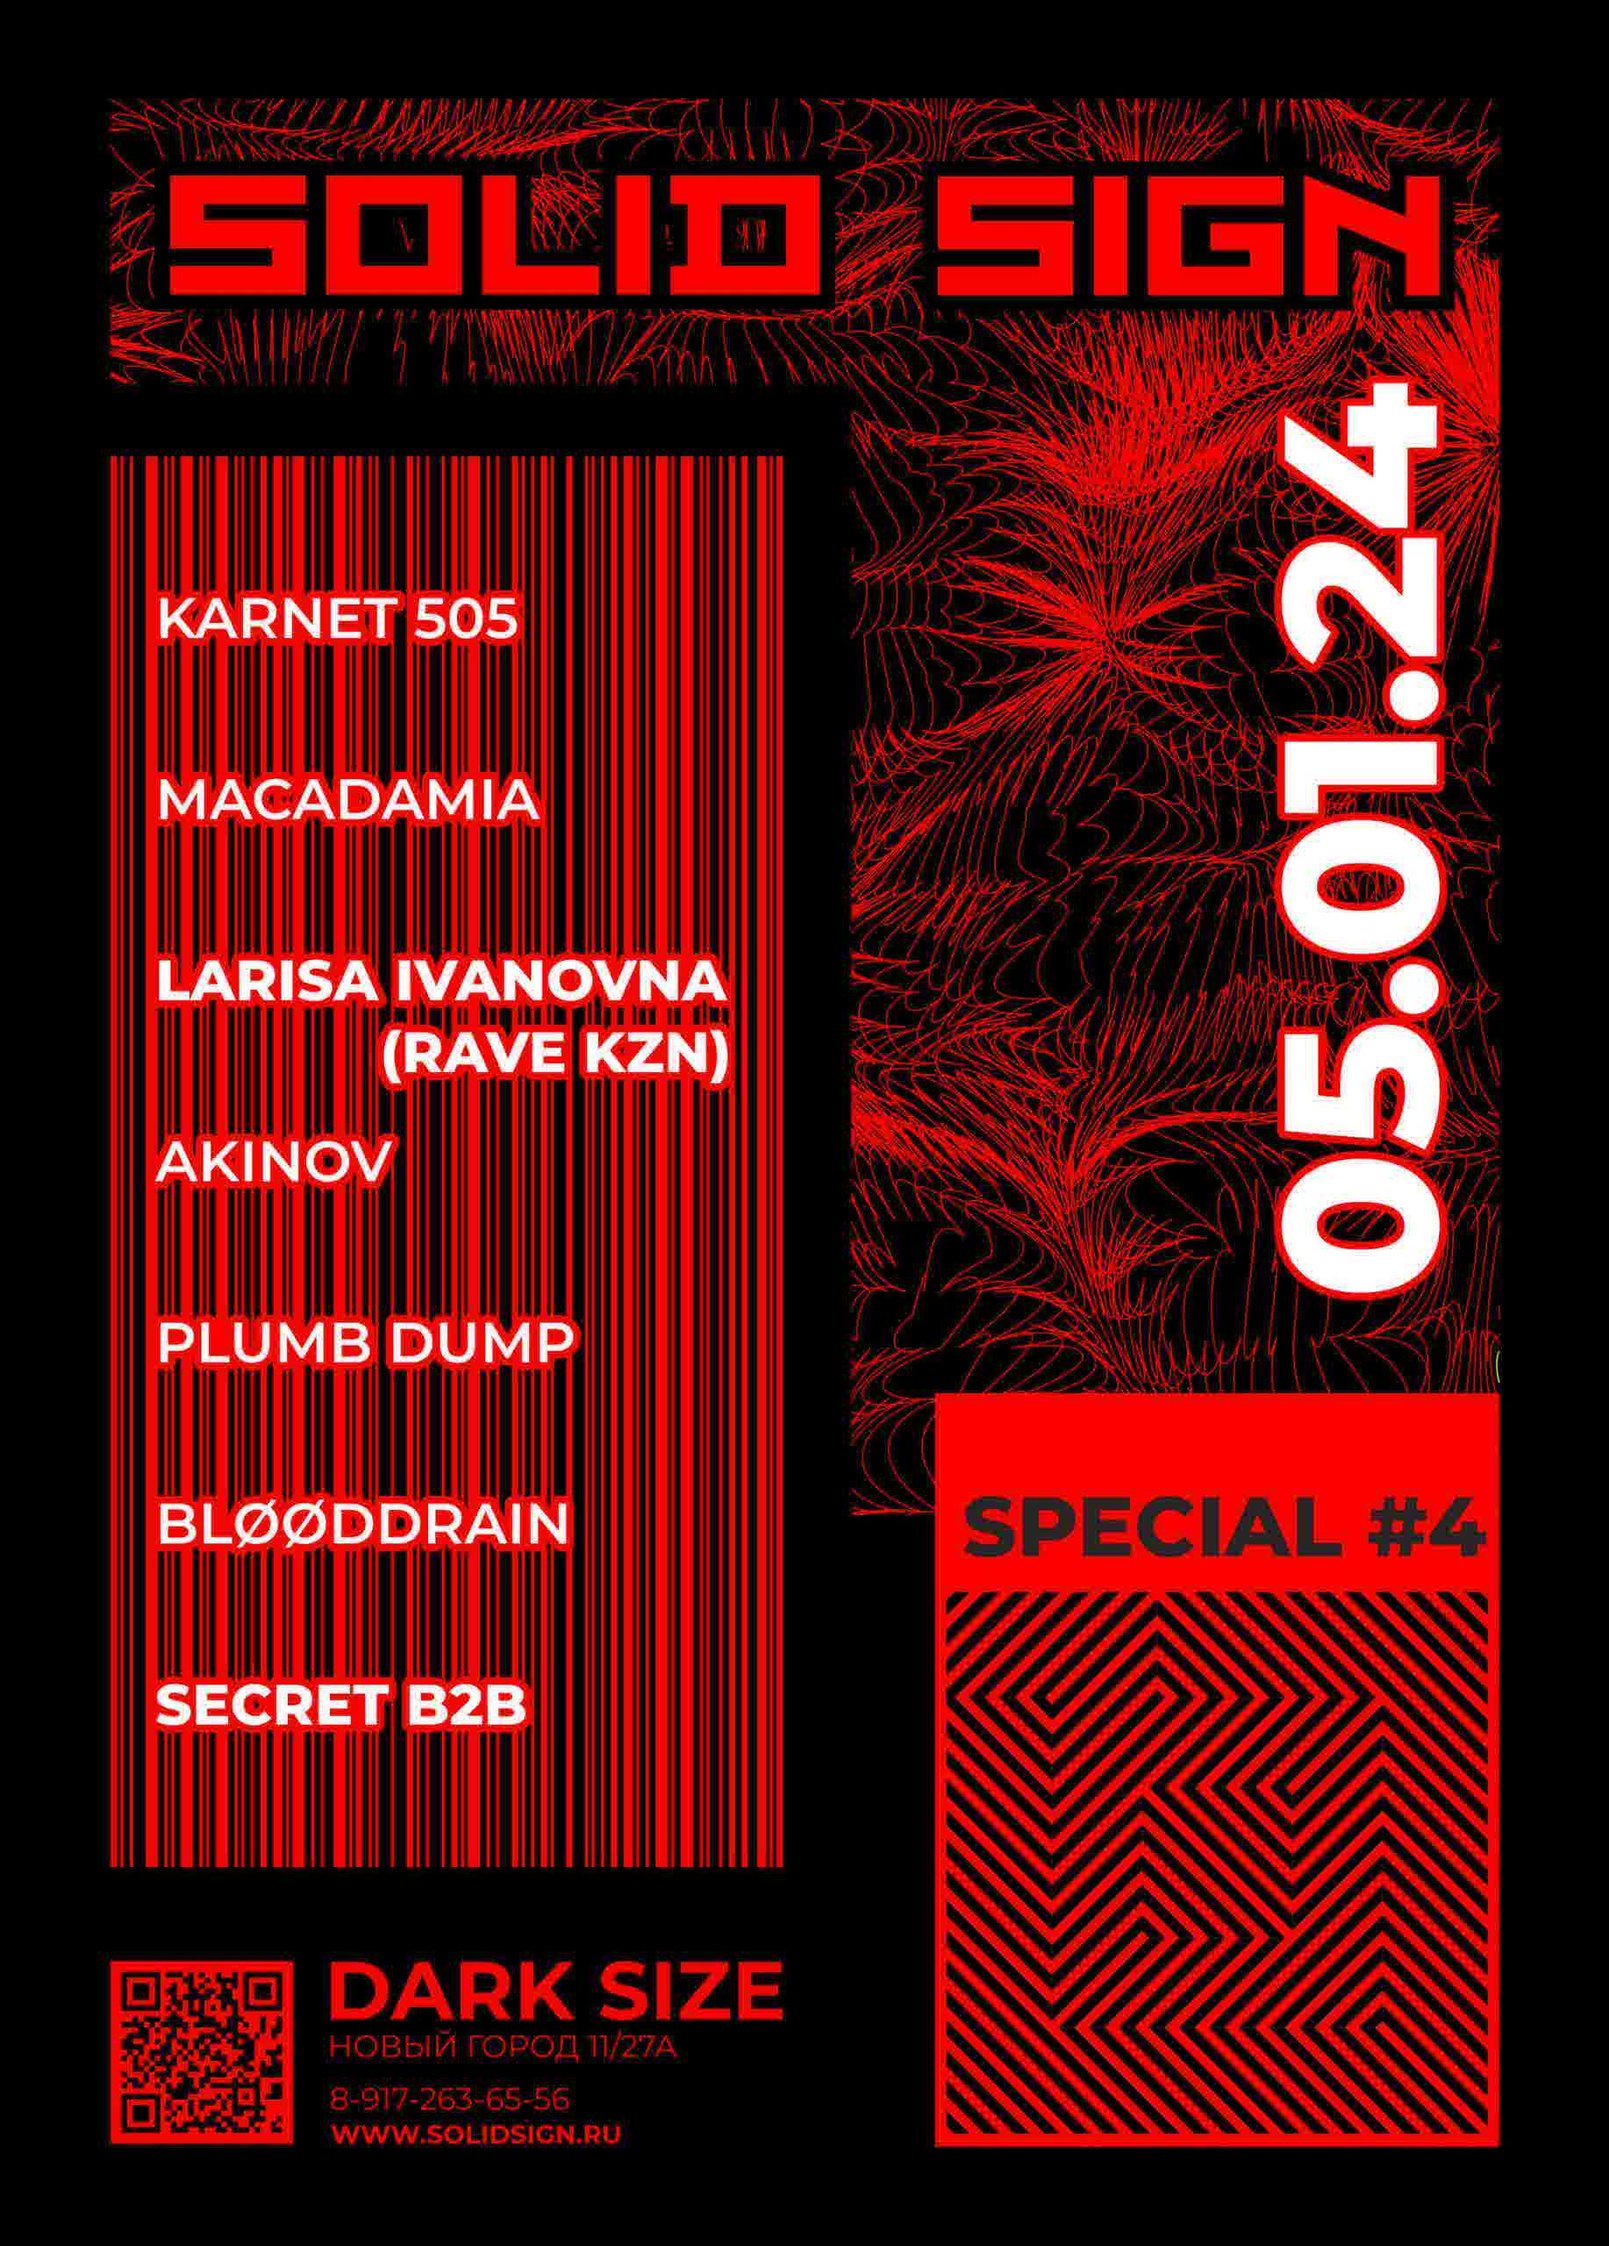
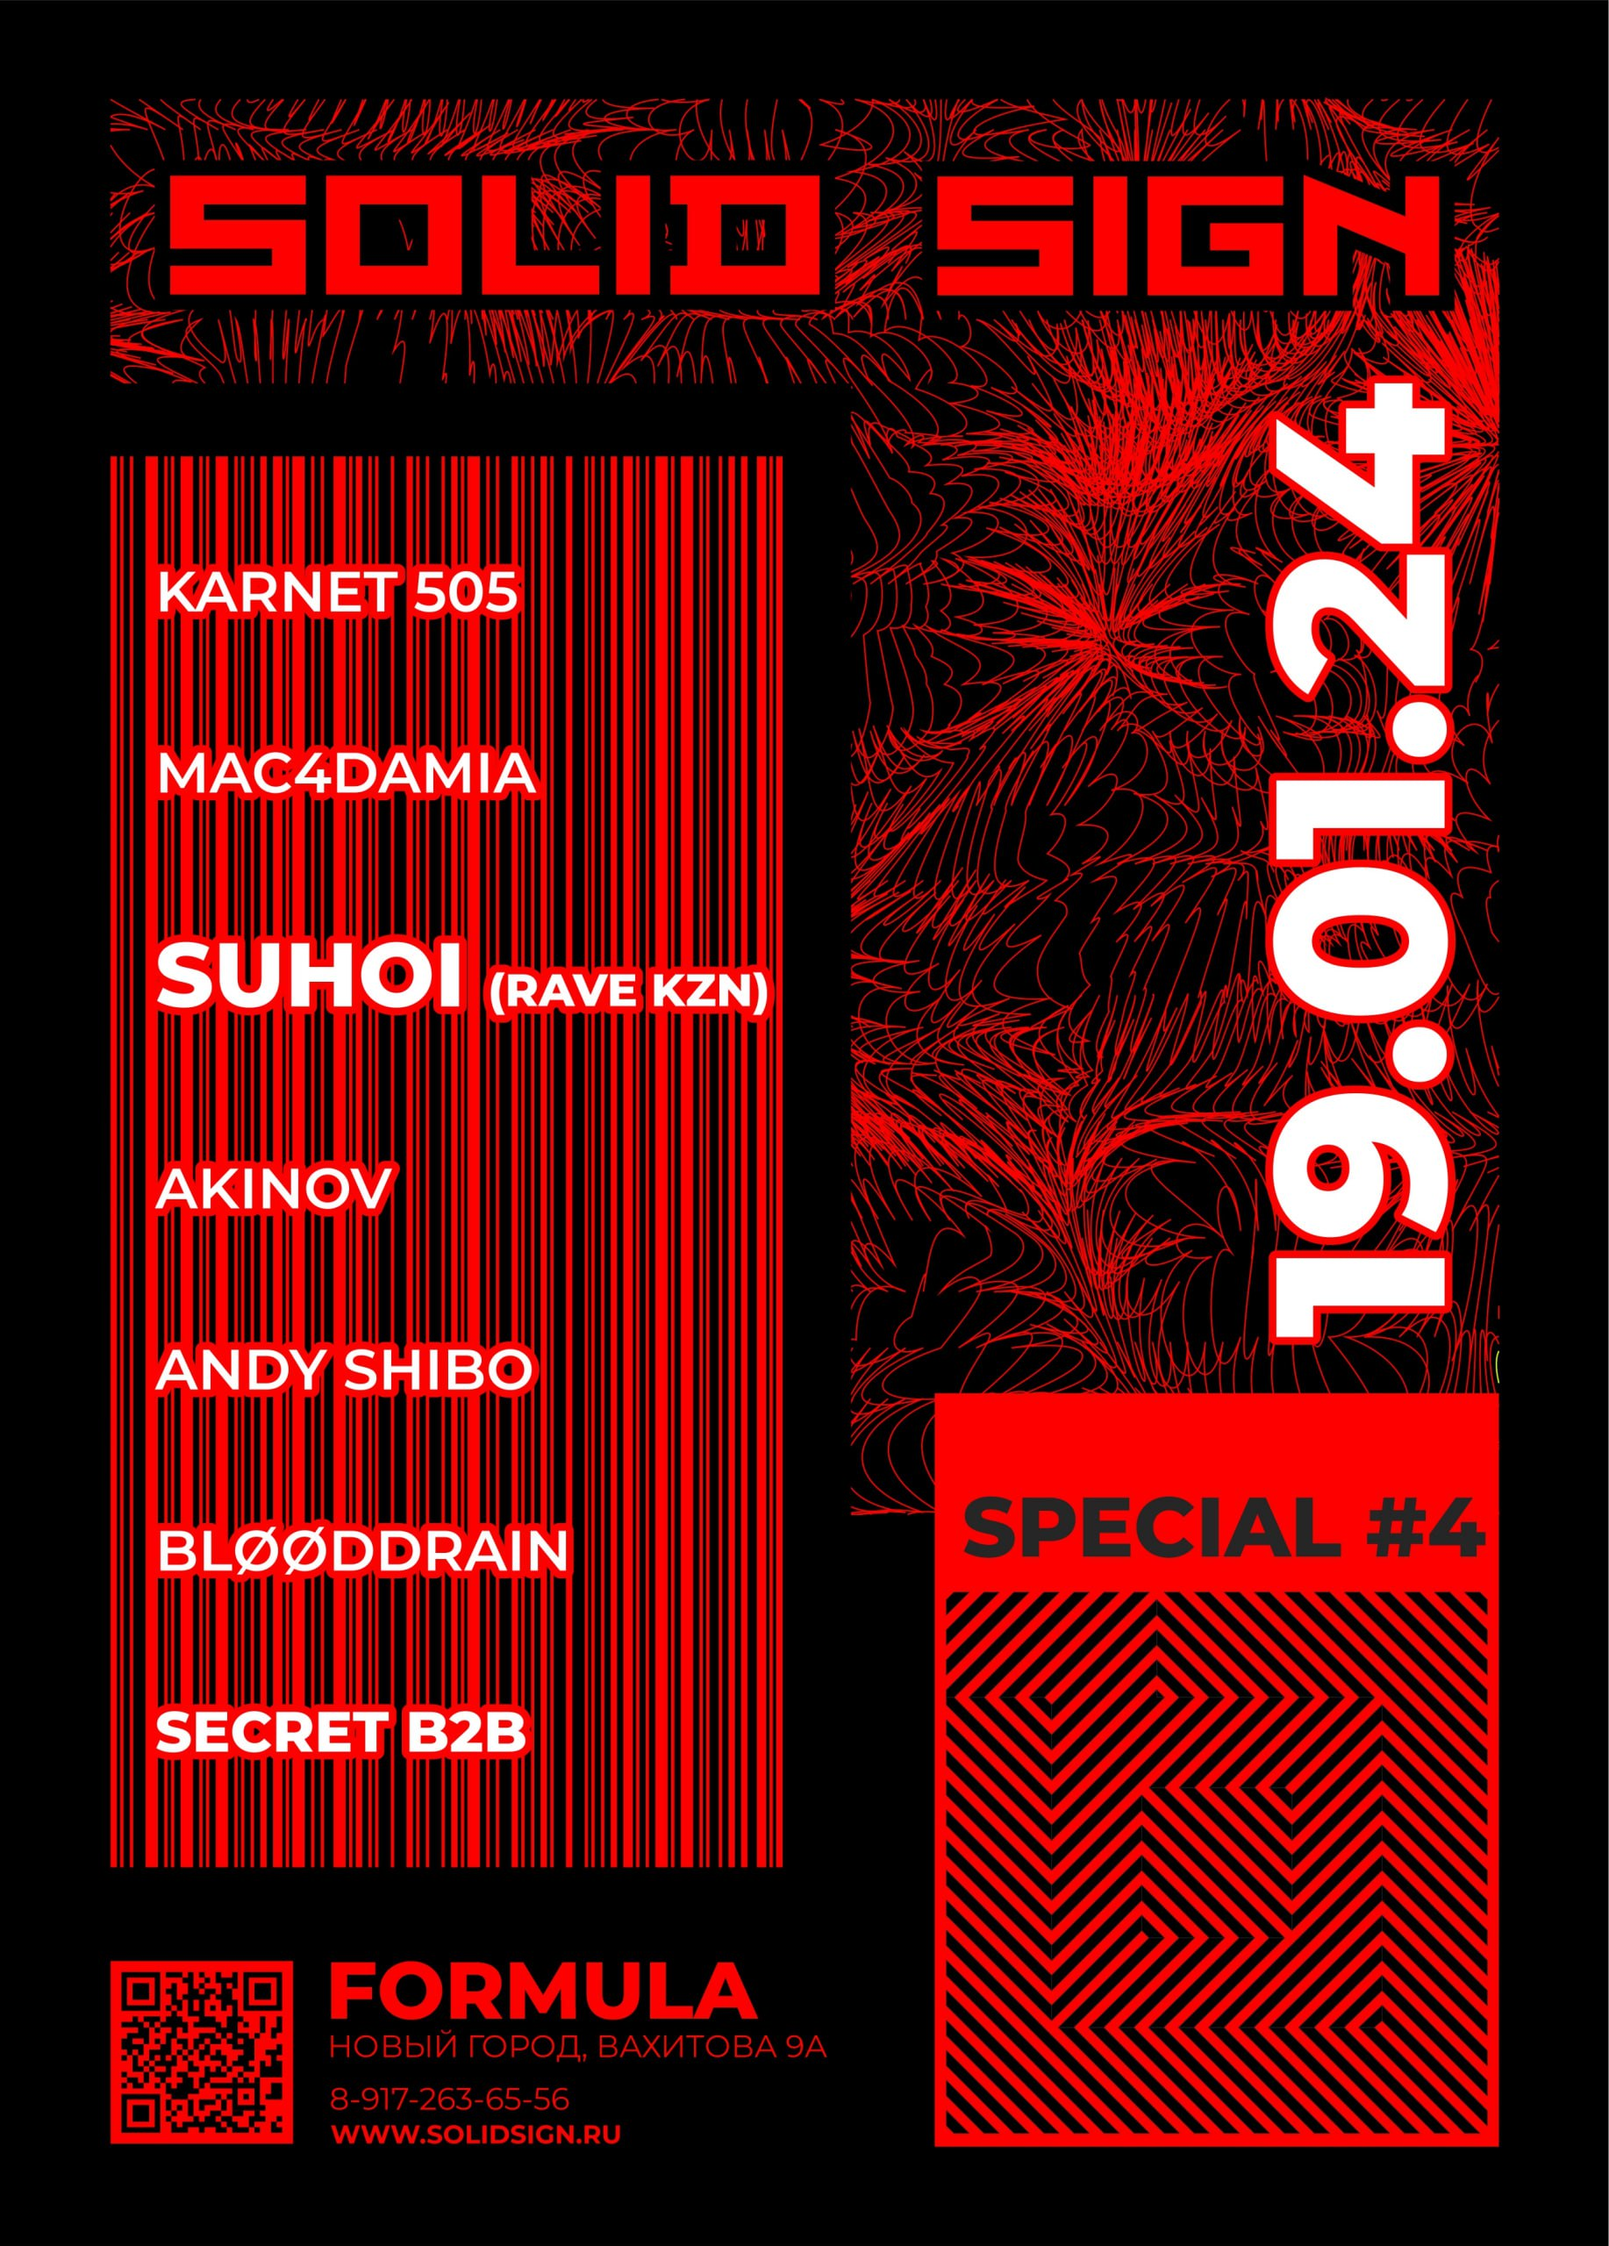
solid sign special #4

Changed region(s): [[0.0622, 0.0312, 0.9324, 0.9688], [0.0622, 0.875, 0.4973, 0.9688], [0.9945, 0.0, 1.0, 0.0312]]

diff --git a/src/pages/index.js b/src/pages/index.js
@@ -7,7 +7,7 @@ import Button from '@mui/material/Button';
 import reset from '../public/images/reset.jpg';
 import harsh from '../public/images/harsh.jpg';
 import urbantatar from '../public/images/urbantatar.jpg';
-// import solidSign8 from '../public/images/solid-sign-8.jpg';
+import solidSign8 from '../public/images/solid-sign-8.jpg';
 import solidSign7 from '../public/images/solid-sign-7.jpg';
 import solidSign6 from '../public/images/solid-sign-6.jpg';
 import solidSign5 from '../public/images/solid-sign-5.jpg';
@@ -22,20 +22,20 @@ import playHard from '../public/images/PlayHard.jpeg';
 const PREVIEW_COUNT = 3;
 
 const events = [
-  // {
-  //   date: new Date('2024-01-05'),
-  //   img: solidSign8,
-  //   href: 'https://nabchelny.qtickets.events/97270-solid-sign-special-4-invites-rave-kzn',
-  //   eventProps: {
-  //     name: 'SOLID SIGN SPECIAL #4 invites RAVE KZN',
-  //     startDate: '2024-01-05',
-  //     startTime: '22:00',
-  //     endDate: '2024-01-06',
-  //     endTime: '05:00',
-  //     timeZone: 'Europe/Moscow',
-  //     location: 'Dark Size',
-  //   },
-  // },
+  {
+    date: new Date('2024-01-19'),
+    img: solidSign8,
+    href: 'https://nabchelny.qtickets.events/97270-solid-sign-special-4-invites-rave-kzn',
+    eventProps: {
+      name: 'SOLID SIGN SPECIAL #4',
+      startDate: '2024-01-19',
+      startTime: '22:00',
+      endDate: '2024-01-20',
+      endTime: '05:00',
+      timeZone: 'Europe/Moscow',
+      location: 'FORMULA (Вахитова 9А)',
+    },
+  },
   {
     date: new Date('2023-12-16'),
     img: playHard,
